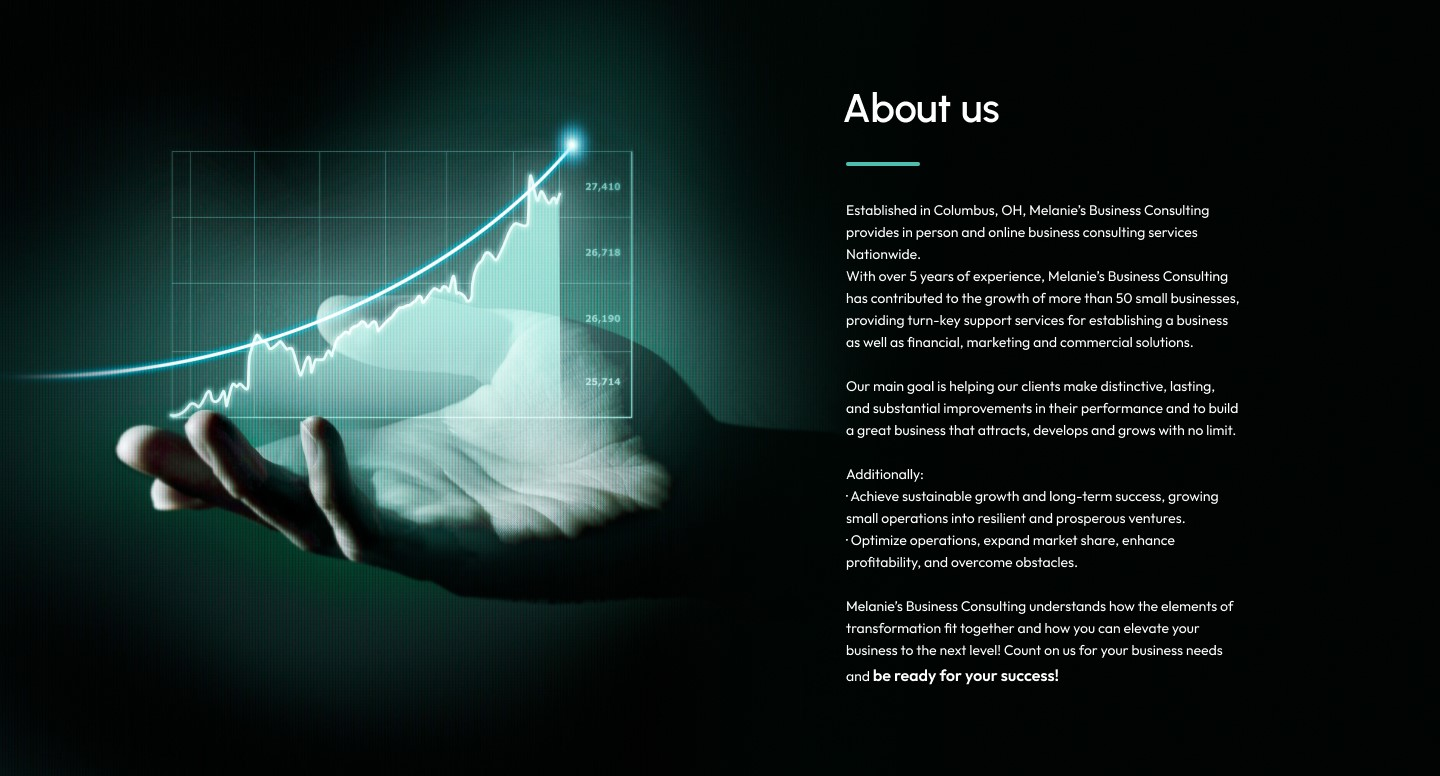
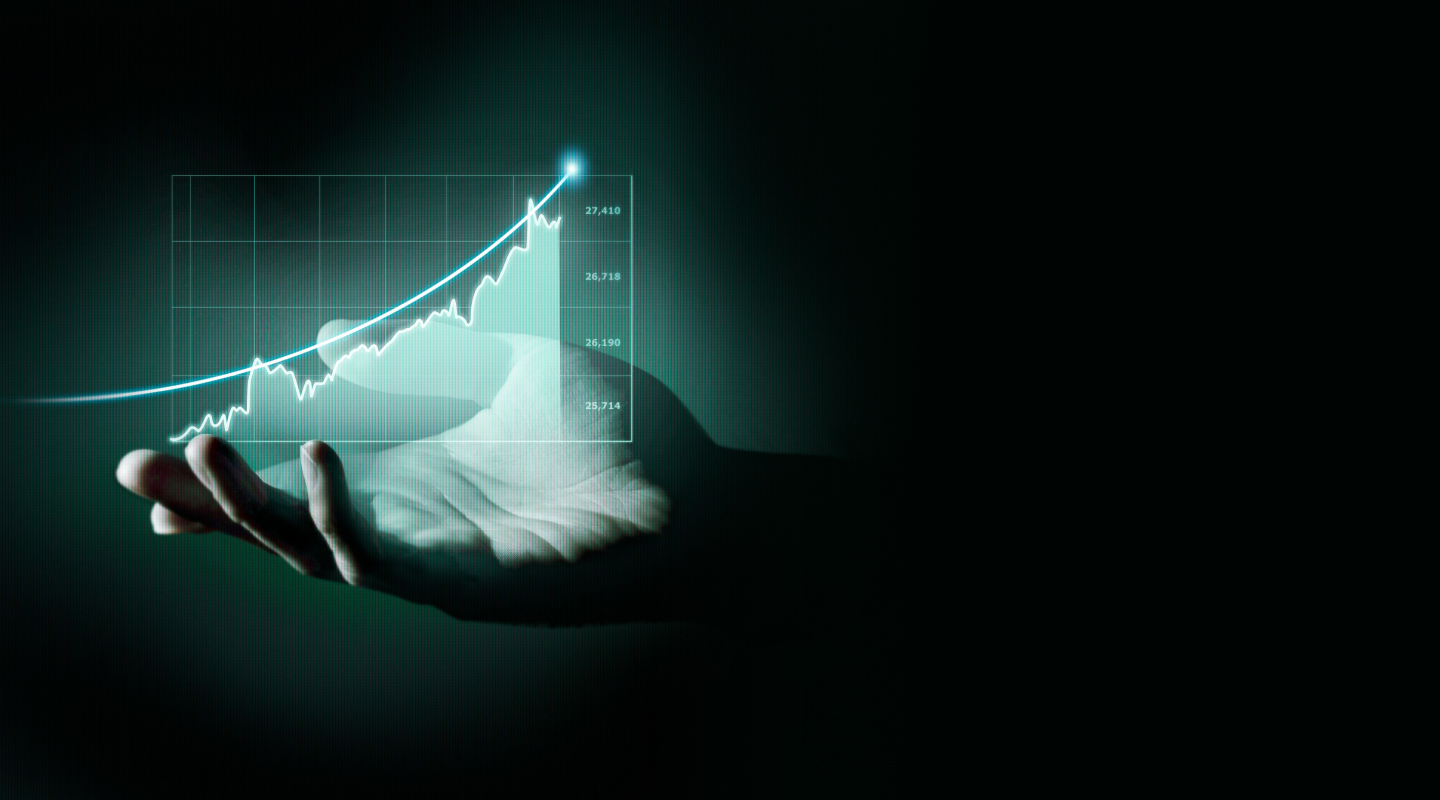
about container

diff --git a/style.css b/style.css
@@ -365,43 +365,160 @@ header {
         font-size: 35.033px;
         line-height: 90%; /* 100.033px */
     }
-    .videop p span{text-decoration:none 4px}
-    .videop p svg{display: block;}
+    .videop p span{text-decoration:none}
+    .videop p svg{
+        display: block;
+        position: absolute;
+        margin: auto;
+        margin-left: 5;
+        margin-top: 2;
+    }
 }
 
 .aboutcontainer{
+    position: relative;
     width: 100%;
     max-width: 3290px;
     margin: auto;
-    color: #FFF;
-    background: linear-gradient(90deg, rgba(0, 16, 11, 0.00) 45.83%, #000403 65.63%), url(<path-to-image>), lightgray -202px -28.903px / 80.994% 103.87% no-repeat;
 }
-.aboutimg img{
-    width: 100%;
+.aboutcontainer img{
     object-fit: cover;
+    width: 100%;
+    max-width: 3290px;
+    margin: auto;
 }
-/*.abouttext{
+.about{
+    position: relative;
+    display: inline;
+    width: 100%;
+    max-width: 1440px;
+    margin: auto;
+}
+.abouttext{
     position: absolute;
-    display:inline-block;
-    float:right;
-    padding-right: 50px
+    z-index: 99;
+    display: flex;
+    flex-direction: column;    
+    width: 450px;
+    top: 50%;
+    transform: translateY(-135%);
+    right: 100;
+    margin-right: 0;
+    color: var(--off-white, #FFF);
+    font-family: 'Urbanist';
 }
-.abouttext p span{
-    text-align: center;
-    font-family: Urbanist;
+.abouttext h2{
+    display: flex;
+    flex-direction: column;    
+    justify-content: center;
     font-size: 40px;
-    font-style: normal;
-    font-weight: 500;
-    line-height: 100%; 
+    font-weight: 600;
+}
+.abouttext h2 svg{
+    margin-top: 16px;
 }
 .abouttext p{
-    width: 400px;
-    font-family: Urbanist;
-    font-size: 16px;
+    width: 431.135px;
+    font-size: 14px;
     font-style: normal;
     font-weight: 500;
-    line-height: 160%; 
-}*/
+    line-height: 160%;
+}
+.abouttext h6{
+    width: 431.135px;
+    font-size: 14px;
+    font-style: normal;
+    font-weight:700;
+    line-height: 160%;
+    letter-spacing: 0.7;
+    border: 1px solid #9BEBEC;
+    border-radius: 8px;
+    margin: 20 0 20 -8;
+    padding: 10;
+}
+.abouttext span{
+    max-width: 350;
+    font-size: 20px;
+    font-style: normal;
+    font-weight: 400;
+    line-height: 160%;
+    letter-spacing: -0.5px;
+}
+@media screen and (max-width:1600px) {
+    .abouttext{   
+        width: 350px;
+        transform: translateY(-110%);
+    } 
+}   
+@media screen and (max-width:1340px) {
+    .abouttext{   
+        width: 350px;
+        transform: translateY(-100%);
+    }    
+    .abouttext h2{
+        font-size: 30px;
+    }
+    .abouttext p{
+        width: 430.135px;
+        font-size: 14px;
+    }
+    .abouttext p span{
+        font-size: 14;
+    }
+    .abouttext h6{
+        width: 421.135px;
+        font-weight:600;
+    }
+    .abouttext span{
+        font-size: 18px;
+        letter-spacing: -0.5px;
+    }
+}
+@media screen and (max-width:1040px) {
+    .abouttext{   
+        width: 450px;
+        top: 50%;
+        transform: translateY(-100%);
+        right: 10;
+    }
+    .abouttext h2{
+        font-size: 20px;
+        font-weight: 600;
+    }
+    .abouttext h2 svg{
+        margin-top: 14px;
+    }
+    .abouttext p{
+        width: 401.135px;
+        line-height: 115%;
+    }
+    .abouttext p span{
+        font-size: 14;
+    }
+    .abouttext h6{
+        font-size: 14px;
+        font-style: normal;
+        font-weight:700;
+        line-height: 160%;
+        letter-spacing: 0.7;
+        border: 1px solid #9BEBEC;
+        border-radius: 8px;
+        margin: 16 0 16 -8;
+        padding: 10;
+    }
+    .abouttext span{
+        max-width: 350;
+        font-size: 18px;
+        line-height: 100%;
+        letter-spacing: 1px;
+    }
+}
+@media screen and (max-width:880px) {
+
+    /*mobile version*/
+
+}
+
 .servicescontainer{
     background-color: #fff;
     width: 100%;
@@ -585,6 +702,7 @@ header {
         font-weight: 400;
         letter-spacing: 0.1;
     }*/
+    .servicescontainer{display: none;}
     
 }
 /*

diff --git a/index.html b/index.html
@@ -85,24 +85,36 @@
             </video></div>
             <div class="videop">
               <img src="./assets/logo-vid.png" alt="" draggable="false">
-              <p>Be ready for your <span style="font-weight:bold;">success</span><span style="color:#9BEBEC;"><svg width="105" height="44" viewBox="0 0 105 44" fill="none" xmlns="http://www.w3.org/2000/svg">
-                <rect width="105" height="7" rx="2" fill="#9BEBEC"/>
-                </svg>
-              .</span></span></p></div>
+              <p>Be ready for your <span style="font-weight:bold;">success<svg width="125" height="9" viewBox="0 0 105 4" fill="none" xmlns="http://www.w3.org/2000/svg">
+                <rect width="105" height="5" rx="2" fill="#9BEBEC"/>
+                </svg></span><span style="color:#9BEBEC;">.
+              </span></span></p></div>
         </div>
         <div class="aboutcontainer">
+                <img src="./assets/about-bg.jpg" alt="" draggable="false">
             <div class="about" id="about">
-                <div class="aboutimg">
-                    <img src="./assets/about-bg.jpg" alt="" draggable="false">
-                </div>
-                <!--<div class="abouttext">
-                    <p><span>About us</span>
-                    <br><br>Established in 2019 in Columbus, OH.
-
-                    <br><br>Juliana Souza is Business Administrator & Accountant in Brazil and a trilingual financial, accounting & marketing specialist certificated by Champlain College (Burlington - VT) and Harvard Business School (Cambridge - MA).
-                        
-                    <br><br>Melanies Business Consulting has contribuited to the growth of more than 50 small businesses so far, with around 15 actives accounts currently, from different areas.</p>
-                </div>-->
+              <div class="abouttext">
+                <h2>About us
+                  <svg width="74" height="5" viewBox="0 0 74 5" fill="none" xmlns="http://www.w3.org/2000/svg">
+                    <path d="M0 2.5C0 1.39543 0.895431 0.5 2 0.5H72C73.1046 0.5 74 1.39543 74 2.5V2.5C74 3.60457 73.1046 4.5 72 4.5H2C0.895429 4.5 0 3.60457 0 2.5V2.5Z" fill="#9BEBEC"/>
+                    </svg>                    
+                </h2>
+                <p><br><br>Established in <span style="font-weight:bold;">Columbus, OH</span>, Melanie’s Business Consulting provides in person and online business consulting services Nationwide.
+                <br><br>
+                With over 5 years of experience, Melanie’s Business Consulting has contributed to the growth of more than 50 small businesses, providing 
+                turn-key support services for establishing a business as well as financial, marketing and commercial solutions.
+                <br><br>
+                Our main goal is helping our clients make distinctive, lasting, and substantial improvements in their performance and to build a great businessthat attracts, develops and grows with no limit.
+                <br><br>
+                Additionally: <br>
+                · Achieve sustainable growth and long-term success, growing small operations into resilient and prosperous ventures.
+                · Optimize operations, expand market share, enhance profitability, and overcome obstacles.</p>
+                <h6>Melanie’s Business Consulting understands how the elements
+                of transformation fit together and how you can
+                elevate your business to the next level!</h6>
+                <span>Count on us for your business <br>
+                  needs and <span style="font-weight:bold;color:#9BEBEC">be ready for your success!</span> </span>
+              </div>
             </div>
         </div>
         <div class="servicescontainer" id="services">
